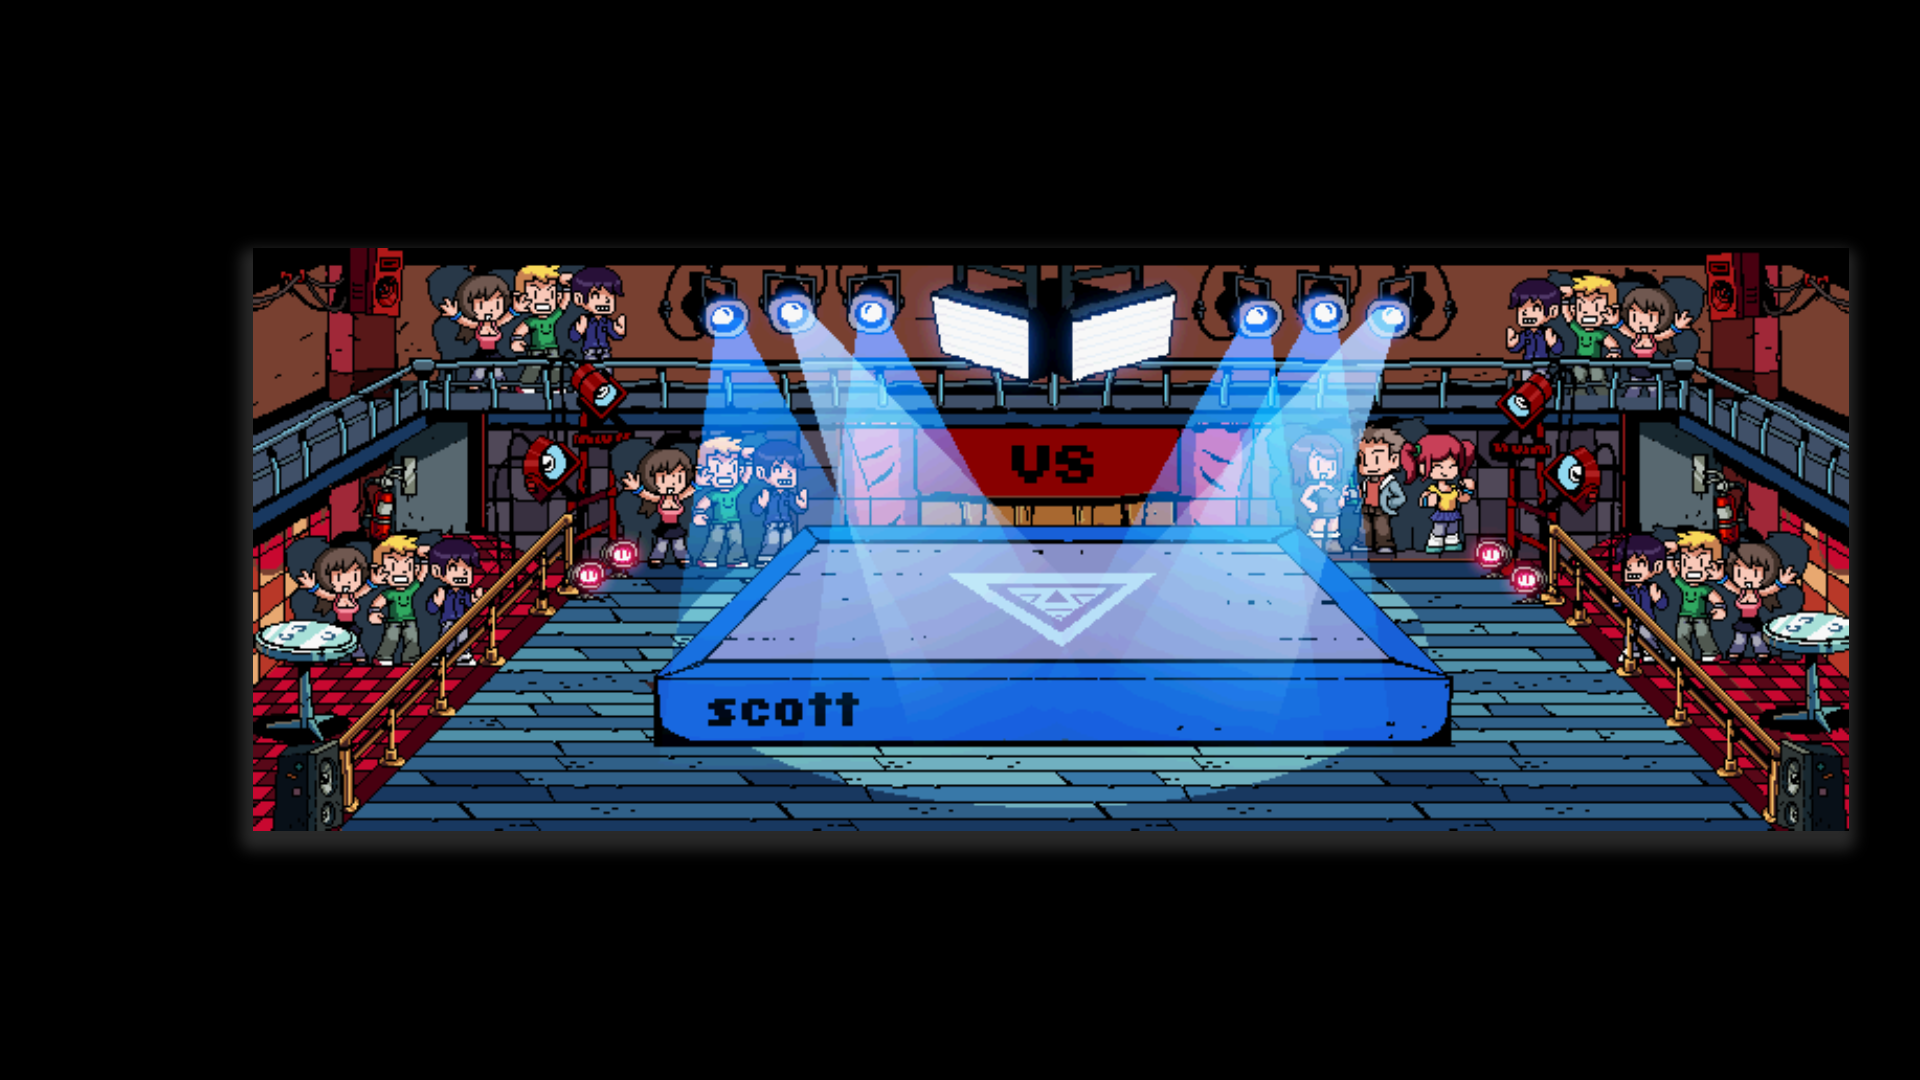
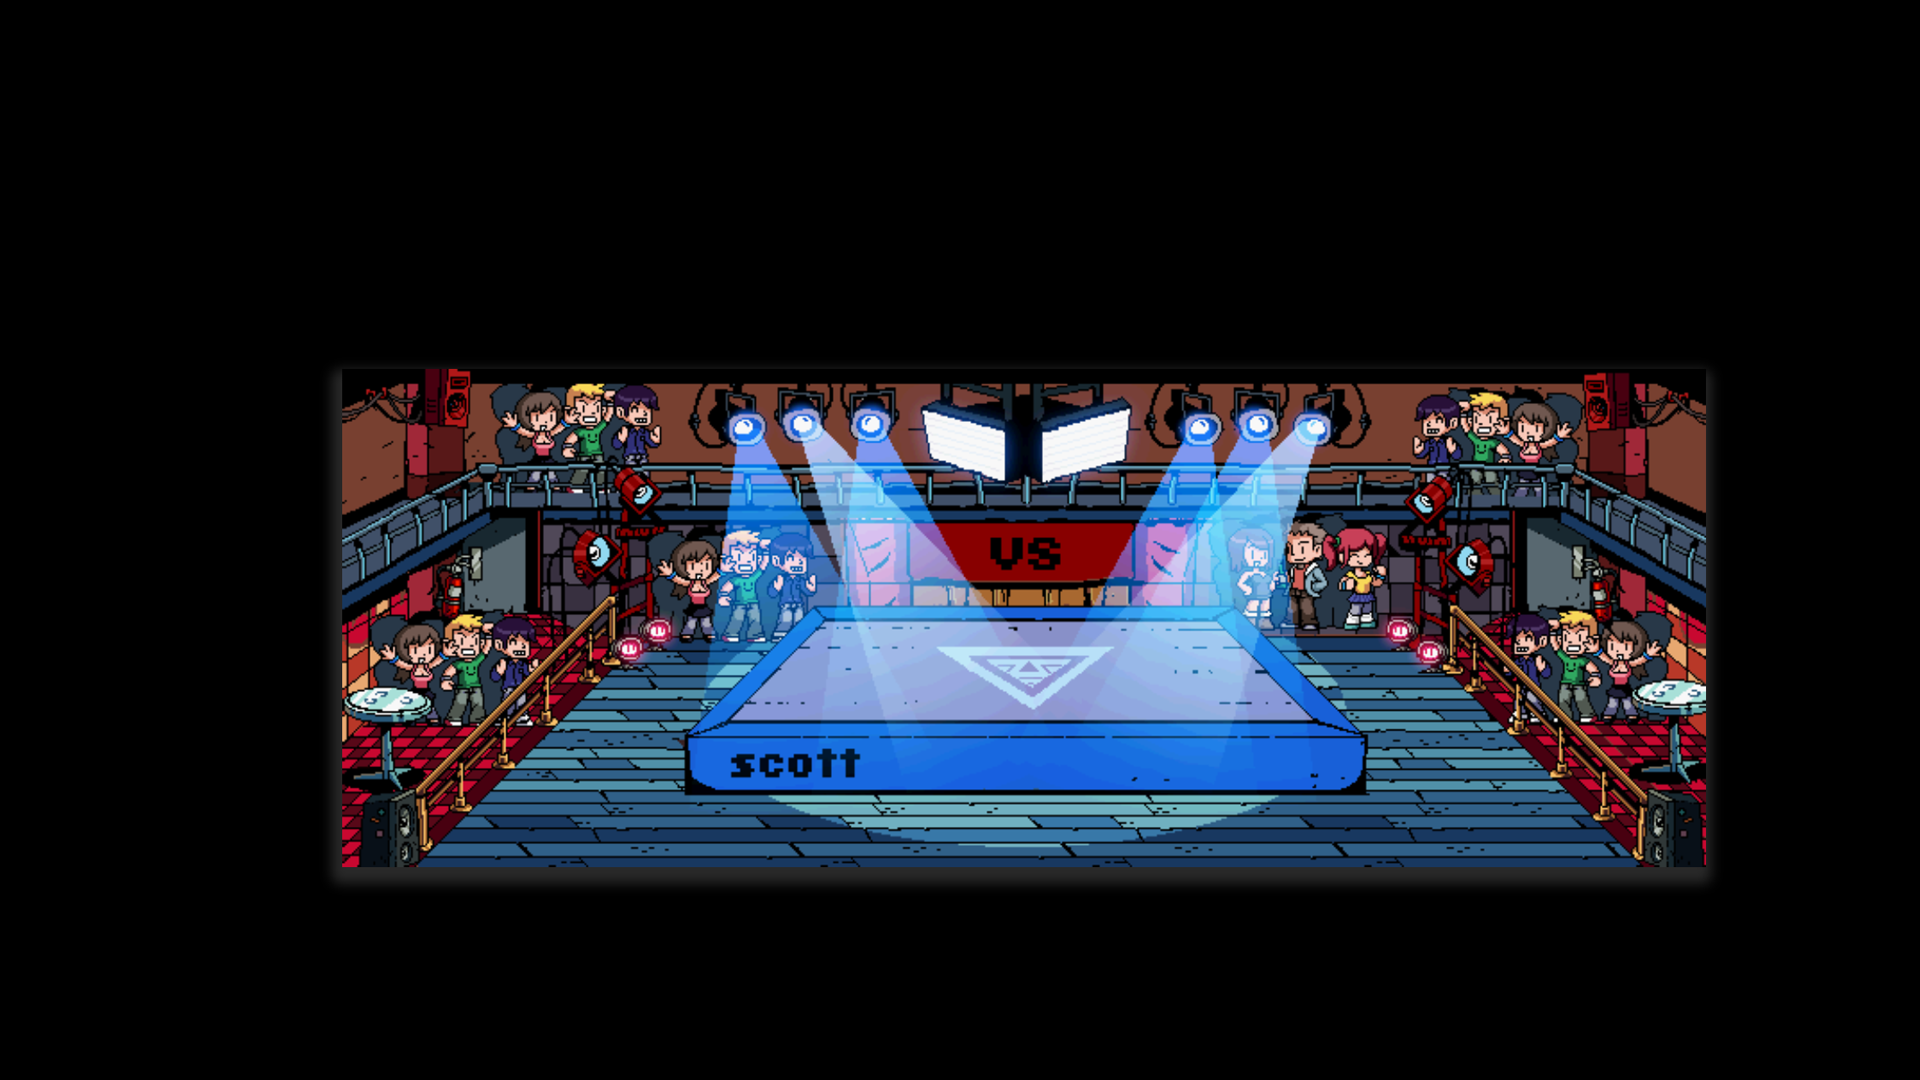
feat: cenas de inimigo inseridas na tela do game

diff --git a/src/pages/game/game.c b/src/pages/game/game.c
@@ -26,19 +26,33 @@ void game(void)
     ALLEGRO_FONT *botao = al_load_ttf_font("../src/assets/fonts/joystix.ttf", 30, 0);
 
     verifyAllegroFunction(al_init_image_addon(), "couldn't initialize image addon");
-    ALLEGRO_BITMAP *player = al_load_bitmap("../src/assets/images/player.png");
     ALLEGRO_BITMAP *cena = al_load_bitmap("../src/assets/images/cena.png");
+    ALLEGRO_BITMAP *player_bg = al_load_bitmap("../src/assets/images/player_bg.png");
+    ALLEGRO_BITMAP *vida_completa = al_load_bitmap("../src/assets/images/vida_completa.png");
+    ALLEGRO_BITMAP *inimigo_bg = al_load_bitmap("../src/assets/images/inimigo_1.png");
+    ALLEGRO_BITMAP *inimigo_fugir = al_load_bitmap("../src/assets/images/inimigo_fugir.png");
+    ALLEGRO_BITMAP *inimigo_defender = al_load_bitmap("../src/assets/images/inimigo_defender.png");
+    ALLEGRO_BITMAP *inimigo_atacar = al_load_bitmap("../src/assets/images/inimigo_atacar.png");
+    ALLEGRO_BITMAP *player = al_load_bitmap("../src/assets/images/player.png");
     ALLEGRO_BITMAP *atacar = al_load_bitmap("../src/assets/images/atacar.png");
     ALLEGRO_BITMAP *defender = al_load_bitmap("../src/assets/images/defender.png");
     ALLEGRO_BITMAP *correr = al_load_bitmap("../src/assets/images/correr.png");
     ALLEGRO_BITMAP *caixa = al_load_bitmap("../src/assets/images/caixa.png");
     ALLEGRO_BITMAP *compilar = al_load_bitmap("../src/assets/images/compilar.png");
+    ALLEGRO_BITMAP *dot = al_load_bitmap("../src/assets/images/dot.png");
 
     verifyAllegroFunction(player, "couldn't initialize player");
+    verifyAllegroFunction(vida_completa, "couldn't initialize player");
+    verifyAllegroFunction(inimigo_bg, "couldn't initialize player");
+    verifyAllegroFunction(inimigo_fugir, "couldn't initialize player");
+    verifyAllegroFunction(inimigo_defender, "couldn't initialize player");
+    verifyAllegroFunction(inimigo_atacar, "couldn't initialize player");
+    verifyAllegroFunction(player_bg, "couldn't initialize player");
     verifyAllegroFunction(cena, "couldn't initialize player");
     verifyAllegroFunction(atacar, "couldn't initialize player");
     verifyAllegroFunction(defender, "couldn't initialize player");
     verifyAllegroFunction(correr, "couldn't initialize player");
+    verifyAllegroFunction(dot, "couldn't initialize player");
 
     verifyAllegroFunction(al_init_primitives_addon(), "primitives");
 
@@ -65,20 +79,32 @@ void game(void)
     sourceY = 0;
 
     float atacarX, atacarY;
-    atacarX = 25;
-    atacarY = 250;
+    atacarX = 70;
+    atacarY = 400;
 
     float defenderX, defenderY;
-    defenderX = 25;
-    defenderY = 400;
+    defenderX = 70;
+    defenderY = 530;
 
     float correrX, correrY;
-    correrX = 25;
-    correrY = 550;
+    correrX = 70;
+    correrY = 660;
+
+    float fugirX, fugirY;
+    fugirX = (width_display - 170);
+    fugirY = 420;
+
+    float iniDefenderX, iniDefenderY;
+    iniDefenderX = (width_display - 170);
+    iniDefenderY = 700;
+
+    float iniAtacarX, iniAtacarY;
+    iniAtacarX = (width_display - 170);
+    iniAtacarY = 560;
 
     float caixaX, caixaY;
     caixaX = 300;
-    caixaY = 850;
+    caixaY = 880;
 
     float compilarX, compilarY;
     compilarX = 1200;
@@ -145,12 +171,6 @@ void game(void)
                 for(int i = 0; i < ALLEGRO_KEY_MAX; i++)
                     key[i] &= KEY_SEEN;
 
-
-                if (sourceX >= al_get_bitmap_width(player)) {
-                    sourceX = 0;
-                }
-
-
                 al_get_mouse_state(&state);
                 if (state.buttons & 1) {
                     interacao = true;
@@ -161,7 +181,6 @@ void game(void)
                     interatividadeCorrer = false;
 
                 }
-
 
                 if (x >= atacarX && x <= (atacarX + 193) && y >= atacarY && y <= (atacarY + 97) && interacao && !interatividadeDefender && !interatividadeCorrer) {
                      atacarX = (x - 50);
@@ -230,11 +249,19 @@ void game(void)
             al_draw_bitmap(defender, defenderX, defenderY, 0);
             al_draw_bitmap(correr, correrX, correrY, 0);
 
+            al_draw_bitmap(inimigo_fugir, fugirX, fugirY, 0);
+            al_draw_bitmap(dot, (width_display - 128), fugirY + 104, 0);
+            al_draw_bitmap(inimigo_atacar, iniAtacarX, iniAtacarY, 0);
+            al_draw_bitmap(dot, (width_display - 128), iniAtacarY + 104, 0);
+            al_draw_bitmap(inimigo_defender, iniDefenderX, iniDefenderY, 0);
 
             al_draw_textf(botao, al_map_rgb(255, 255, 255), (width_display/2) - 400, 100, 0, "ACERTE A SEQUÊNCIA PARA PASSAR DE FASE");
             al_draw_textf(botao, al_map_rgb(255, 255, 255), (width_display/2), 160, 0, "FASE 1");
 
             al_draw_bitmap(player, 600, 530, 0);
+            al_draw_bitmap(inimigo_bg, width_display - 330, 200, 0);
+            al_draw_bitmap(player_bg, 80, 200, 0);
+            al_draw_bitmap(vida_completa, 360, 280, 0);
 
             al_flip_display();
 
@@ -249,6 +276,13 @@ void game(void)
     al_destroy_bitmap(caixa);
     al_destroy_bitmap(compilar);
     al_destroy_bitmap(player);
+    al_destroy_bitmap(inimigo_bg);
+    al_destroy_bitmap(inimigo_fugir);
+    al_destroy_bitmap(inimigo_atacar);
+    al_destroy_bitmap(inimigo_defender);
+    al_destroy_bitmap(dot);
+    al_destroy_bitmap(player_bg);
+    al_destroy_bitmap(vida_completa);
 
     al_destroy_font(font);
     al_destroy_timer(timer);
